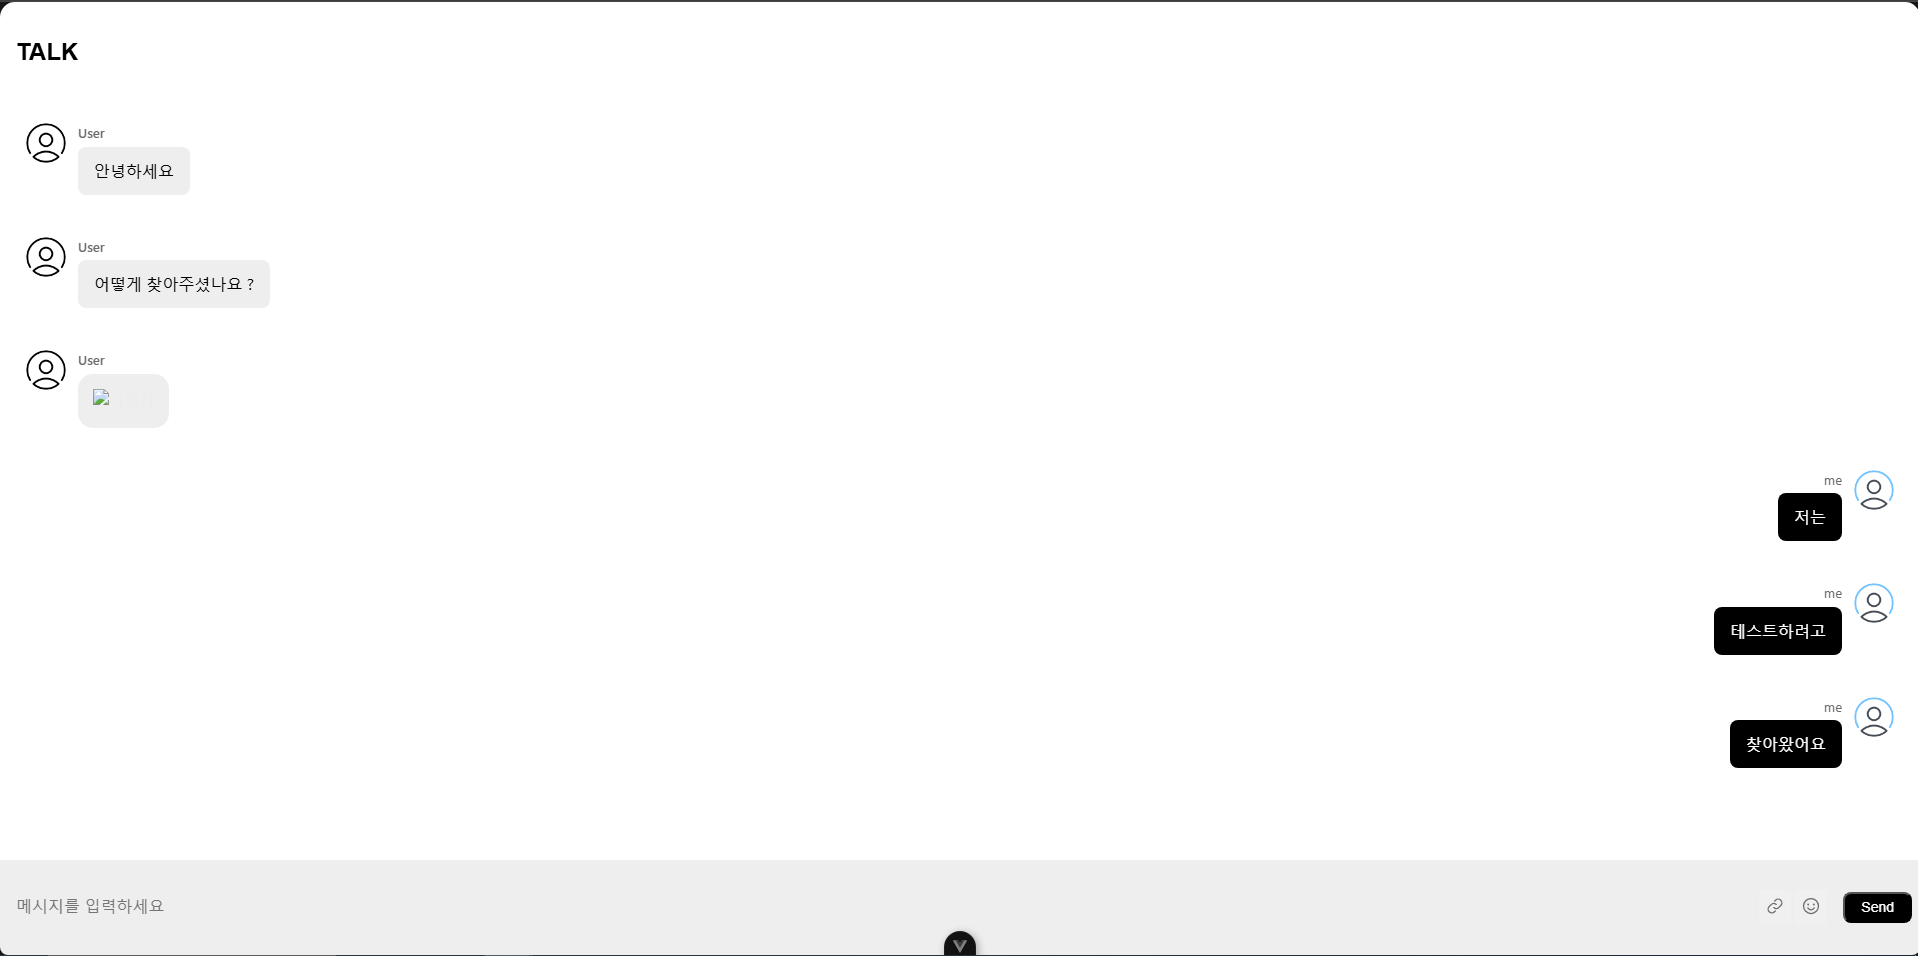
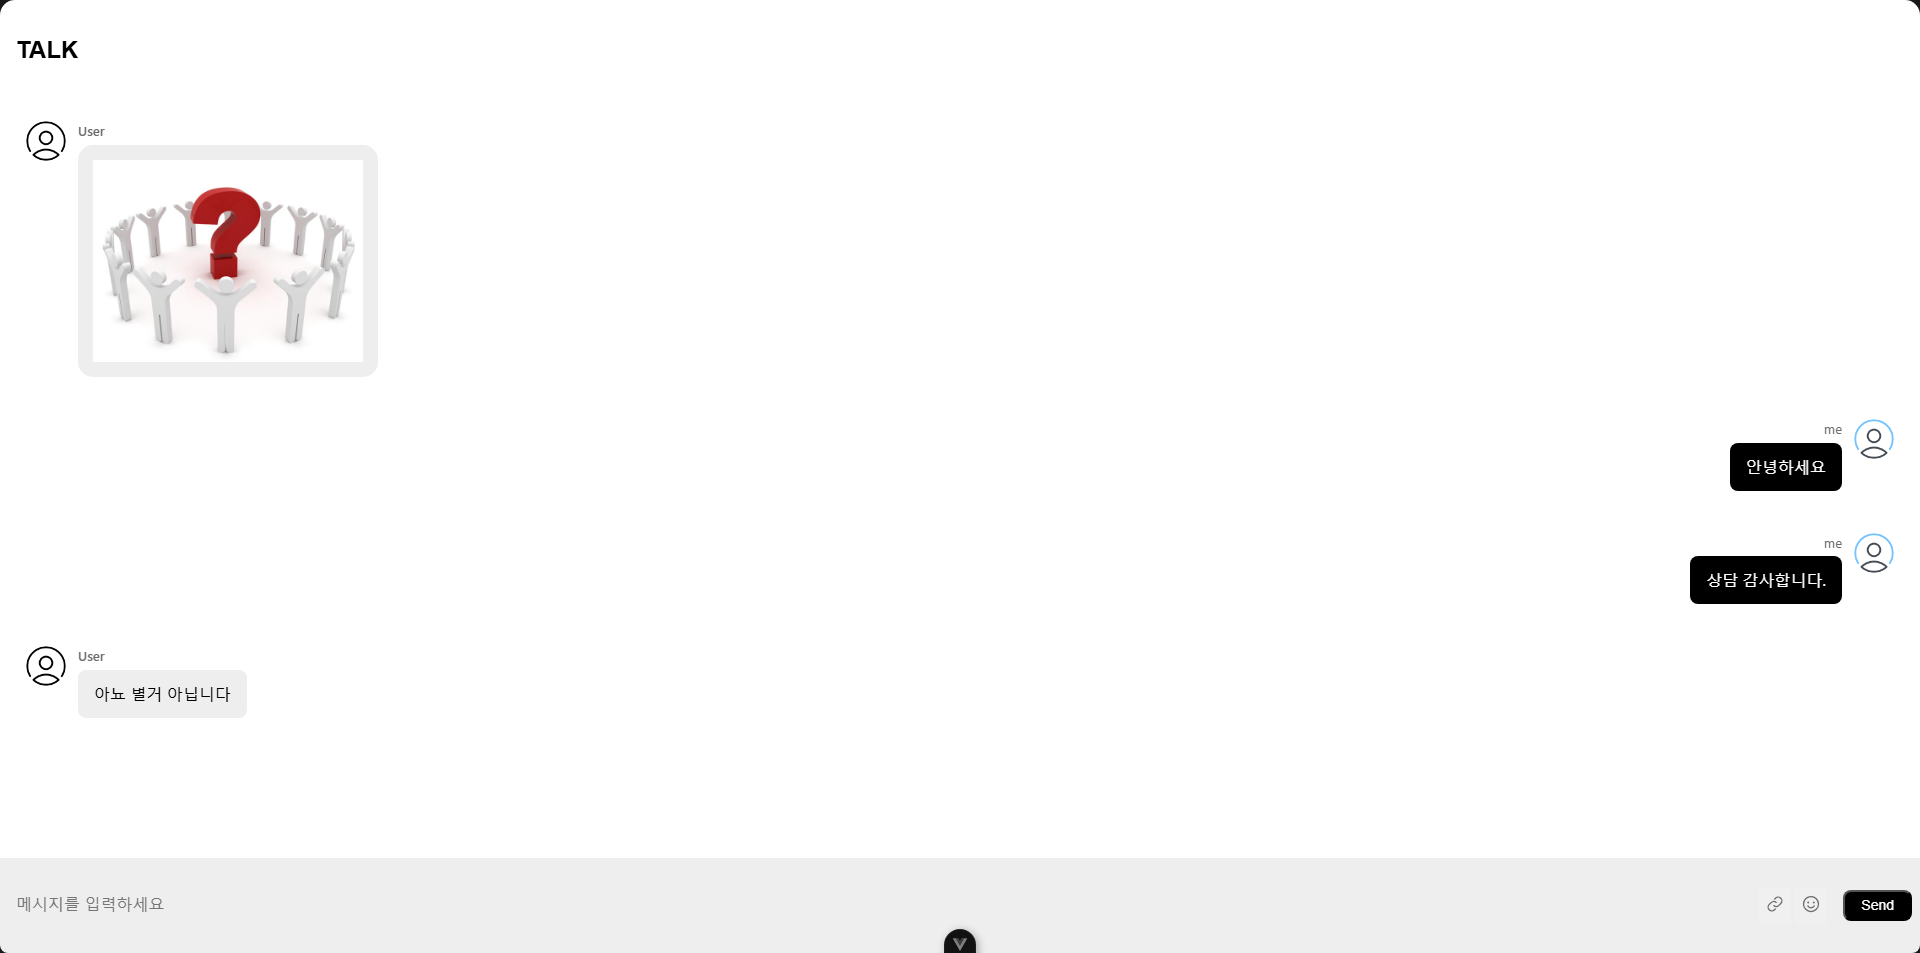
ENV 파일 설정 추가

diff --git a/src/components/chat/ChatContainer.vue b/src/components/chat/ChatContainer.vue
@@ -50,6 +50,7 @@
     name: 'ChatContainer',
     data() {
       return {
+        apiUrl: import.meta.env.VITE_APP_API_URL,
         messages: [],
         stompClient: null,
         senderKey: Math.random().toString(36).substr(2,11),
@@ -61,7 +62,7 @@
     },
     methods: {
       connect(event) {
-        let socket = new WebSocket('ws://localhost:8080/ws');
+        let socket = new WebSocket('ws://' + this.apiUrl + '/ws');
         this.stompClient  = Stomp.over(socket);
         this.stompClient.connect({}, this.onConnected, this.onError);
       },
@@ -71,7 +72,7 @@
           this.stompClient.disconnect(function (){
             console.log("소켓 연결이 끊어졌습니다.");
 
-            let socket = new WebSocket('ws://localhost:8080/ws');
+            let socket = new WebSocket('ws://' + this.apiUrl + '/ws');
             this.stompClient = Stomp.over(socket);
 
             this.stompClient.connect({}, function() {
@@ -85,7 +86,7 @@
       },
 
       onConnected() {
-        fetch("http://localhost:8080/chat/room", {
+        fetch("http://" + this.apiUrl + "/chat/room", {
           method: "POST"
         })
         .then((res) => {
@@ -165,7 +166,7 @@
         let imgFormData = new FormData();
         imgFormData.append('file', e.target.files[0]);
 
-        fetch('http://localhost:8080/chat/upload/file', {
+        fetch('http://' + this.apiUrl + '/chat/upload/file', {
           method: 'POST',
           body: imgFormData
         })
@@ -214,6 +215,8 @@
           myProfileHtml = "";
           themProfileHtml = `<div class="chat-${senderClass}-profile-img"></div>`;
         }
+
+        file = "http://" + this.apiUrl + file;
 
         let fileMessageHtml = `<div class="chat-${senderClass}">
                                             ${themProfileHtml}

diff --git a/README.md b/README.md
@@ -4,8 +4,11 @@
 채팅창 이미지
 
 [API]
+
 1.Chat API clone 후 실행 시켜야 소켓 통신으로 채팅 가능
 API URI : https://github.com/SolMa98/chat
 
-2.ENV 파일 내 API 주소 설정
-ENV 파일 구현 예정
+2.Chat Client clone
+Client URI : https://github.com/SolMa98/chat-client
+
+3.Client ENV 파일 내 API 주소 설정
